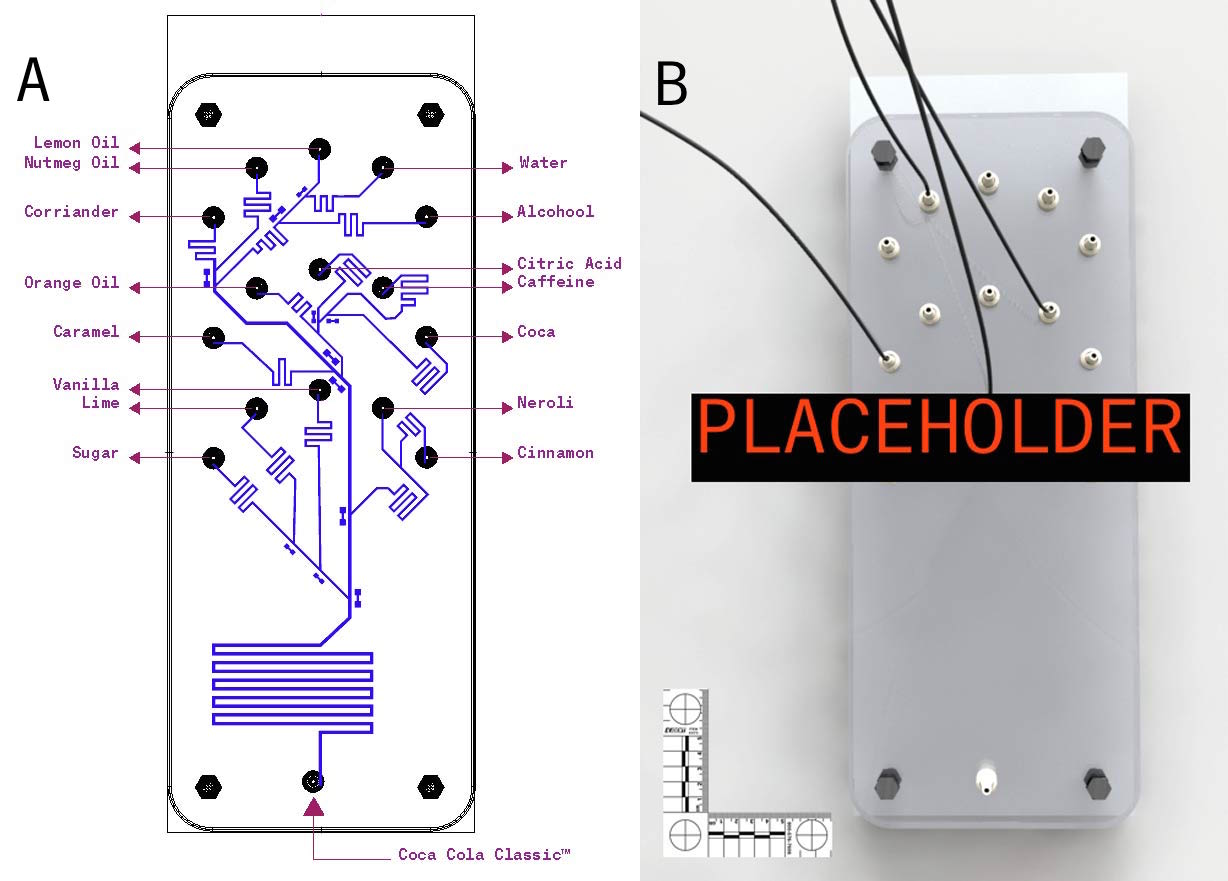
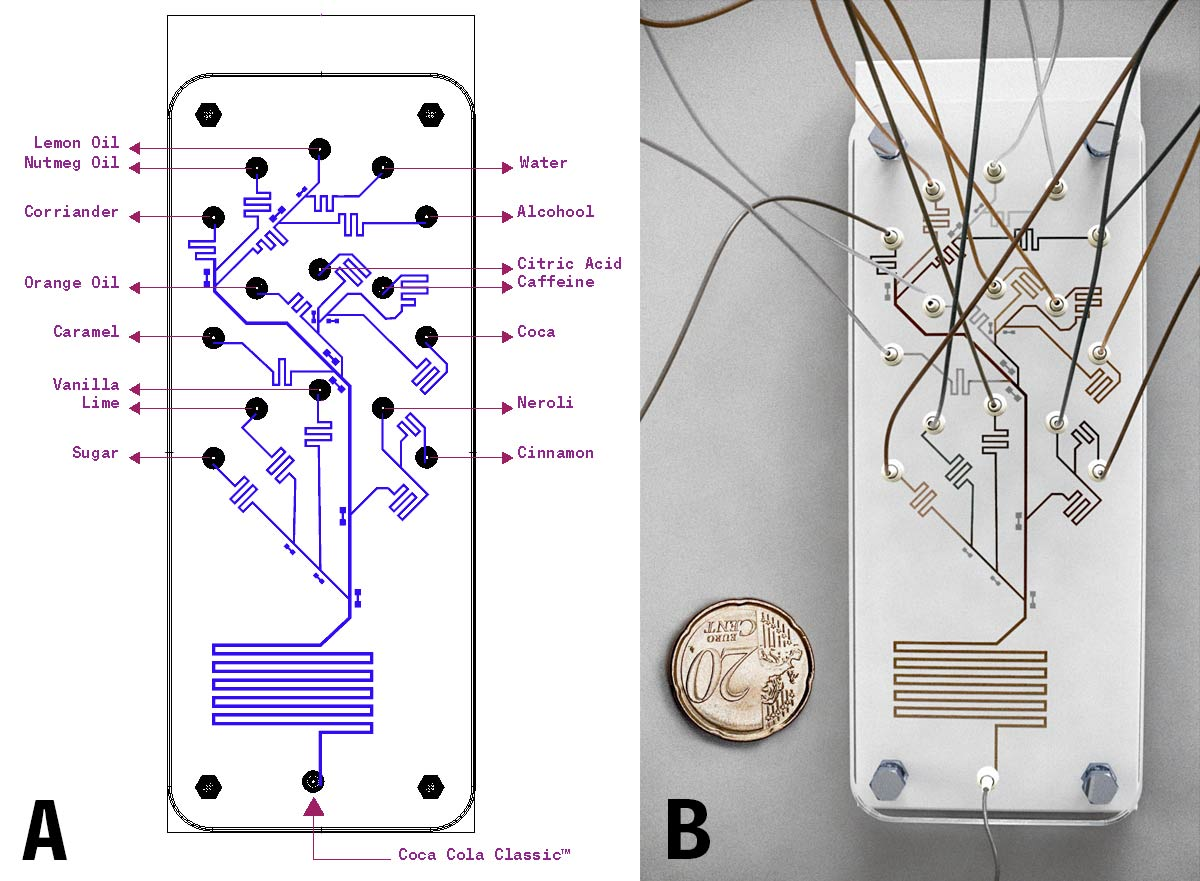
LOC documentation

diff --git a/README.md b/README.md
@@ -9,14 +9,14 @@ Lanza T. [^1] and Benque D. [^2]
 We disclose an experimental apparatus and novel methods for ester synthesis in artificial flavour production using off-the-shelf ingredients. This new approach is the direct if serendipitous outcome of our ongoing research in flavor mapping using mass-spectrometry on convenience foods. We detail preliminary findings and experimental design, as well as a framework to build on these findings using two key components: the Flavor Markup Language (FML) and Synchronous On-Demand Aroma (SODA) Streaming API. On this basis we propose a new universal and distributed paradigm for computational [^8] flavour synthesis.
 
 ## Introduction
-The analysis and classification of flavors along a continuous spectrum [^4] has long been a key challenge for both food science and industry. Ester chain optimisation has made rapid progress in the last decade but some hurdles remain–a coherent systems approach still falls short of unifying niche areas such as coffee flavour [^6]. Consumer "clean label" [^5] concerns are placing existing systems under increasing pressure.
+The analysis and classification of flavors along a continuous spectrum[^4] has long been a key challenge for both food science and industry. Ester chain optimisation has made rapid progress in the last decade but some hurdles remain–a coherent systems approach still falls short of unifying niche areas such as coffee flavour [^6]. Consumer "clean label" [^5] concerns are placing existing systems under increasing pressure.
 
 In this setting, our initial research was concerned with flavor mapping following a network-based approach [^7] and focusing on convenience foods [^9]. A typical study would use High Performance Liquid Chromatography (HPLC) to separate off-the-shelf products  into their constituent components. The resulting fraction pool would then be quantified [^10] and modelled computationally [^11] to generate correlation analysis reports (fig. 2) between a pool of up to 4 products and the full flavour spectrum (fig. 1). Such results are used to optimise production systems by 1) Reducing costs across multiple product outputs. 2) Maximising the use of waste fractions into new outputs. 
 
 <img src="figures/Flavor-Spectrum.jpg" style="width: 400px;"/>
 
 **Fig. 1 Flavor Spectrum**  
-[needs source]
+>> needs source
 
 <div style="clear:both"></div>
 
@@ -29,14 +29,16 @@ In this setting, our initial research was concerned with flavor mapping followin
 [See full dataset](figures/Correlation-Reports) 
 
 
-One recent study involved a top-tier market sample of 52 products on which we were running our established series of analysis methods. The sample pool was a median cross section of "shopping basket"[^12] items, so nothing prepared us for the remarkable results that our models delivered. Whereas we routinely witnessed correlation coefficients up to a maximum of 0.54, a specific sample of 3 products yielded a score of 0.95, meaning the pool of their components almost covered the entire flavour spectrum. We isolated the 3 products (Coca-Cola Company's Coca-Cola Classic™, Fanta Orange™ and Sprite™) and were able to reproduce coefficients between 0.94 and 0.96 in subsequent experiments. Checking the spectrum footprint against our existing databases revealed that the missing 0.06 to 0.04 could be closed significantly with the addition of a fourth source: Monosodium Glutamate (MSG)[^13]. The resulting pool (further referred to as CFS(m)) was ranked at up to 0.984 correlation coefficient by our model (fig. 3). Given the 0.15 error margin generally accepted by the flavour industry this is equivalent to a confident match with the full flavour spectrum.
+One recent study involved a top-tier market sample of 52 products on which we were running our established series of analysis methods. The sample pool was a median cross section of "shopping basket"[^12] items, so nothing prepared us for the remarkable results that our models delivered. 
 
+We were using a Correlation Coefficient variable between 0.0 and 1.0 as a proxy for mapping multi-dimensional flavor space, with 1.0 as the hypoethical perfect match with the full flavor spectrum. We routinely witnessed correlation coefficients up to a maximum of 0.54, however a specific sample of 3 products yielded a score of 0.95, meaning the pool of their components almost covered the entire flavour space. 
+
+We isolated the 3 products (Coca-Cola Company's Coca-Cola Classic™, Fanta Orange™ and Sprite™) and were able to reproduce coefficients between 0.94 and 0.96 in subsequent experiments. Checking the spectrum footprint against our existing databases revealed that the missing 0.06 to 0.04 could be closed significantly with the addition of a fourth source: Monosodium Glutamate (MSG)[^13]. The resulting pool (further referred to as CFS(m)) was ranked at up to 0.984 correlation coefficient by our model (fig. 3). Given the 0.15 error margin generally accepted by the flavour industry this is equivalent to a confident match with the full flavour spectrum.
 
 <img src="figures/CC-CFS-MSG.jpg"/>
 
 **Fig. 3 The CFS(m) Correlation**    
 **3.a.** Initial Correlation result of the CFS sample: Coca-Cola Company's Coca-Cola Classic™, Fanta Orange™ and Sprite™ against the flavour spectrum **3.b.** Footprint Record for Monosodium Glutamate (MSG). **3.c.** Combined CFS(m) Correlation showing a coefficient of 0.992
-
 
 On the basis of this exceptional and unexpected match and computational proof, we designed an initial wet-lab study to test the hypothesis chemically, the results of which are detailed here. Our aim was primarily to test the viability of CFS(m) in reproducing a range of flavors from our convenience foods database and, should this be successful, to establish protocols for the systematisation of CFS(m) synthesis for further experimentation, reproducibility and characterization. 
 
@@ -45,30 +47,31 @@ On the basis of this exceptional and unexpected match and computational proof, w
 
 ### Experimental Design 
 
-Describe process here  
-Fischer–Speier esterification
+>> Describe process here  
+>> de-gasing
+>> Fischer–Speier esterification
 
 <img src="figures/Experimental_Design.jpg"/>
 
 **Fig. 4 Experimental Design**  
-**A:** High Performance Liquid Chromatography (HPLC) machine? de-gasing **B:** Bank C: Coca-Cola Classic™ (liquid) **C:** Bank F: Fanta Orange™ (liquid) **D:** Bank S: Sprite™ (liquid) **E:** Bank M: Monosodium Glutamate (solid) **F:** Syringe Pump. Accuracy of ±0.5% and reproducibility of ±0.05% - max. flow: 0.5ul **G:** Microfuidic Chip Separators **H:** Find a name for this **I:** Multi-pipette - capacity: xxml
+**A:** High Performance Liquid Chromatography (HPLC) 4 bank rack **B:** Bank C: Coca-Cola Classic™ (liquid) **C:** Bank F: Fanta Orange™ (liquid) **D:** Bank S: Sprite™ (liquid) **E:** Bank M: Monosodium Glutamate (solid) **F:** Syringe Pump. Accuracy of ±0.5% and reproducibility of ±0.05% - max. flow: 0.5ul **G:** Microfuidic Chip Separators **H:** Find a name for this **I:** Multi-pipette - capacity: xxml
 
 ### Microfuidic Lab-On-Chip Separator
 
-Describe chip design, flows, etc here
+>> Describe chip design, flows, etc here
 
 <img src="figures/Lab-on-chip_C_separator.jpg"/>
 
 **Fig. 5 Lab-On-Chip Microchannel design**  
-descritption here [^14] **A:** Circuit Design **B:** Photograph showing micro channel etching
+descritption here [^14] **A:** Circuit Design **B:** Photograph showing micro channel etching (not yet!) 
 
 <div style="clear:both"></div>
 
 ### Flavor Markup Language (FML)
 
->> Describe FML spec.   
->> format, syntax, etc... should be taken from any other XML spec? 
->> [Link to FML directory](FML/)
+Describe FML spec.   
+format, syntax, etc... should be taken from any other XML spec  
+[Link to FML directory](FML/)
 
 ```
 FML File
@@ -121,7 +124,7 @@ The methods and protocols developed in this study demonstrate that flavor can be
 
 Our experiments confirm the hypothesis that Coca-Cola Company's Coca-Cola Classic™, Fanta Orange™ and Sprite™, with the addition of Monosodium Glutamate (MSG), are the primary components of an ester palette from which every flavor in the world can be recreated. Analogies to color theory's additive (RGB) or substractive (CMYK) color spaces[^18], suggest that a CFS(m) flavor system could increase the efficiency of flavor synthesis by several orders of magnitude. The variety of digital color models currently in operation for specific purposes (eg. RGB, HSV, Hexadecimal, RAL, Pantone™, etc) highlight the potential for standardisation and replicability across global networks of suppliers, industries and consumers. 
 
-Our iterative testing methods show that the FML file format provides a robust data structure for flavor semantics while remainging fairly readable. We hope it will encourage further research from the community. Immediate next goals include further experimentation with experiment design as well as characterisation in order to expand the scope of CFS(m) flavor space. 
+Our iterative testing methods show that the FML file format provides a robust data structure for flavor semantics while remainging fairly readable. We hope it will encourage further research from the community that will expand the scope of characterised CFS(m) flavor space. 
 
 
 
